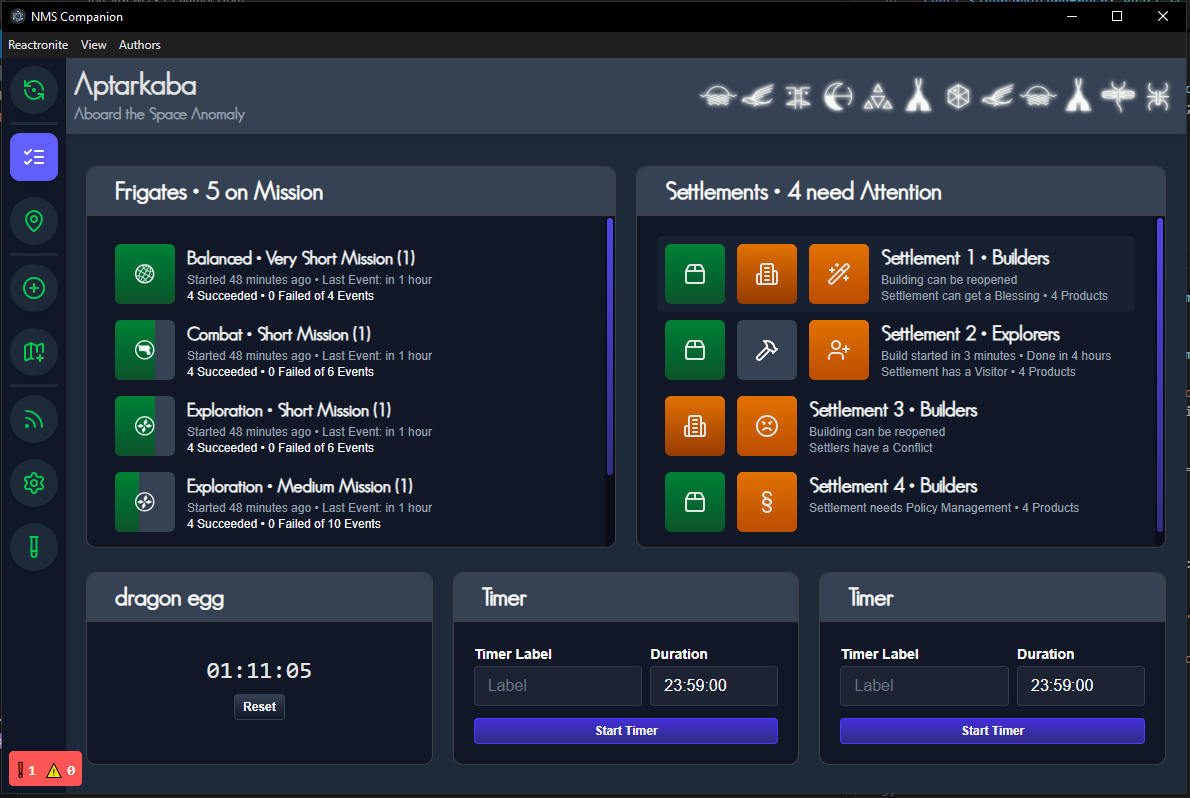
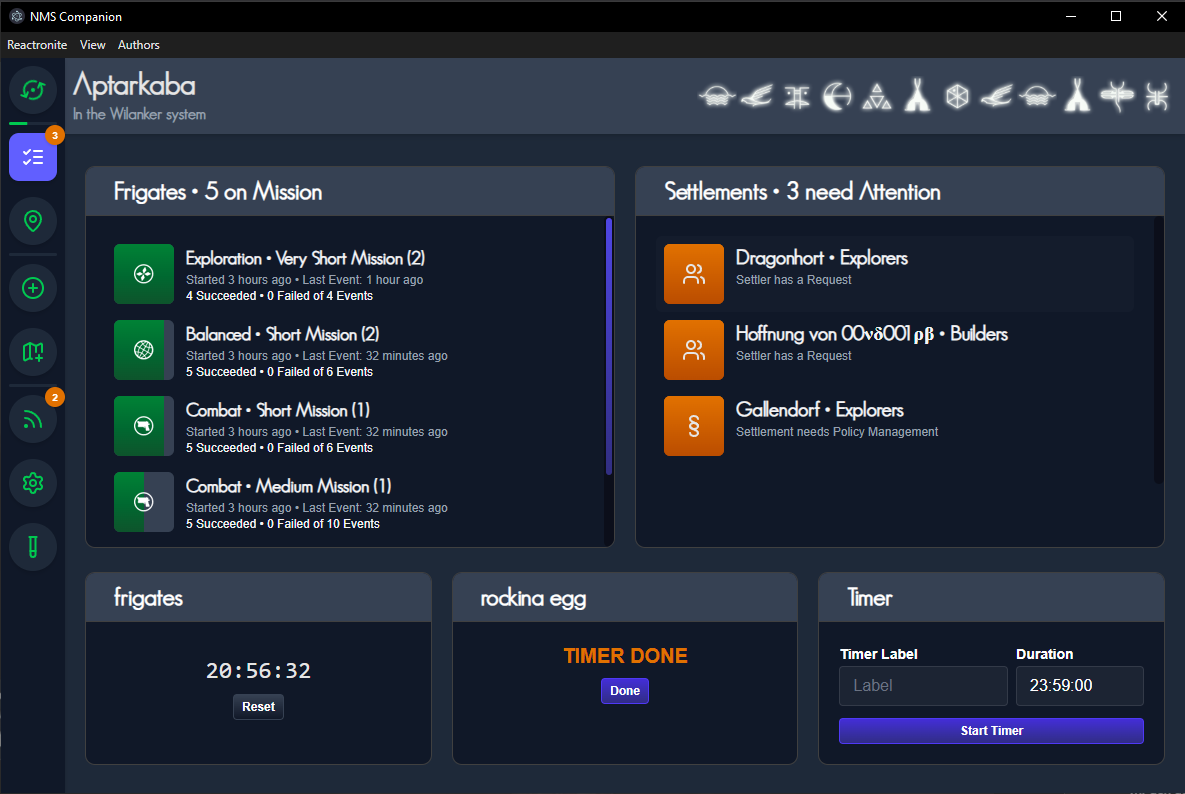
feat: badgenumbers for settlements

diff --git a/src/app/stores/useMissionsStore.ts b/src/app/stores/useMissionsStore.ts
@@ -17,12 +17,14 @@ interface MissionsStoreState {
   error: boolean;
   frigates: FrigateType[];
   settlements: SettlementType[];
+  needAction: number;
   getMissions: () => void;
 }
 
 const defState: Omit<MissionsStoreState, 'getMissions'> = {
   error: false,
   loading: true,
+  needAction: 0,
   frigates: [],
   settlements: []
 };
@@ -34,11 +36,18 @@ const useMissionsStore = create<MissionsStoreState>()((set) => ({
 
     try {
       const mis: MissionsType = await electron.ipcRenderer.invoke('GET_MISSIONS');
+
+      const settlements = mis.settlements.filter((settle) => settle.buildActive === true ||
+        settle.buildClass !== 'None' ||
+        settle.needsJudgement === true ||
+        settle.produce > 0);
+
       if (mis.error) {
         set({ ...defState, loading: false, error: true });
         return;
       }
-      set({ frigates: mis.frigates, settlements: mis.settlements, loading: false });
+
+      set({ frigates: mis.frigates, settlements, needAction: settlements.length, loading: false });
       await usePositionStore.getState().setCurrent(mis.position);
       await useRedditStore.getState().getFeed();
     } catch (_err) {

diff --git a/src/app/screens/Missions.tsx b/src/app/screens/Missions.tsx
@@ -17,11 +17,6 @@ export default function MissionsPage () {
     getMissions();
   }, []);
 
-  const sett = settlements.filter((settle) => settle.buildActive === true ||
-    settle.buildClass !== 'None' ||
-    settle.needsJudgement === true ||
-    settle.produce > 0);
-
   return (
     <div>
       {loading && <Loader message='Loading Missions ...' />}
@@ -46,12 +41,12 @@ export default function MissionsPage () {
         <Card
           className='max-h-[331px] overflow-y-scroll'
           title={`Settlements ${
-            sett.length ? `• ${sett.length} need Attention` : ''
+            settlements.length ? `• ${settlements.length} need Attention` : ''
           }`}
         >
-          {sett.length
+          {settlements.length
             ? (
-              <SettlementsList settlements={sett} />
+              <SettlementsList settlements={settlements} />
               )
             : (
               <h2 className='text-2xl text-center font-nms pt-1'>

diff --git a/src/app/components/Sidebar.tsx b/src/app/components/Sidebar.tsx
@@ -11,6 +11,7 @@ import useRedditStore from '../stores/useRedditStore';
 const SideBar = () => {
   const loc = useLocation();
   const newEntries = useRedditStore((s) => s.newEntries);
+  const needSettlementAction = useMissionsStore((s) => s.needAction);
 
   const getBadgeCount = (route: RouteItem) => {
     let badgeCount = 0;
@@ -18,7 +19,9 @@ const SideBar = () => {
       badgeCount = newEntries;
     }
 
-    // @TODO check for "done build status" in /missions
+    if (route.location === '/') {
+      badgeCount = needSettlementAction;
+    }
 
     return badgeCount;
   };

diff --git a/src/app/components/TimerMission.tsx b/src/app/components/TimerMission.tsx
@@ -103,7 +103,7 @@ export const TimerMission: React.FC<TimerComponentProps> = ({ storageKey }) => {
         : isExpired
           ? (
             <div className='flex flex-col items-center gap-2'>
-              <h2 className='text-xl text-yellow-400 font-bold'>TIMER DONE</h2>
+              <h2 className='text-xl text-amber-600 font-bold'>TIMER DONE</h2>
               <button
                 onClick={handleConfirmEnd}
                 className='button tiny'
